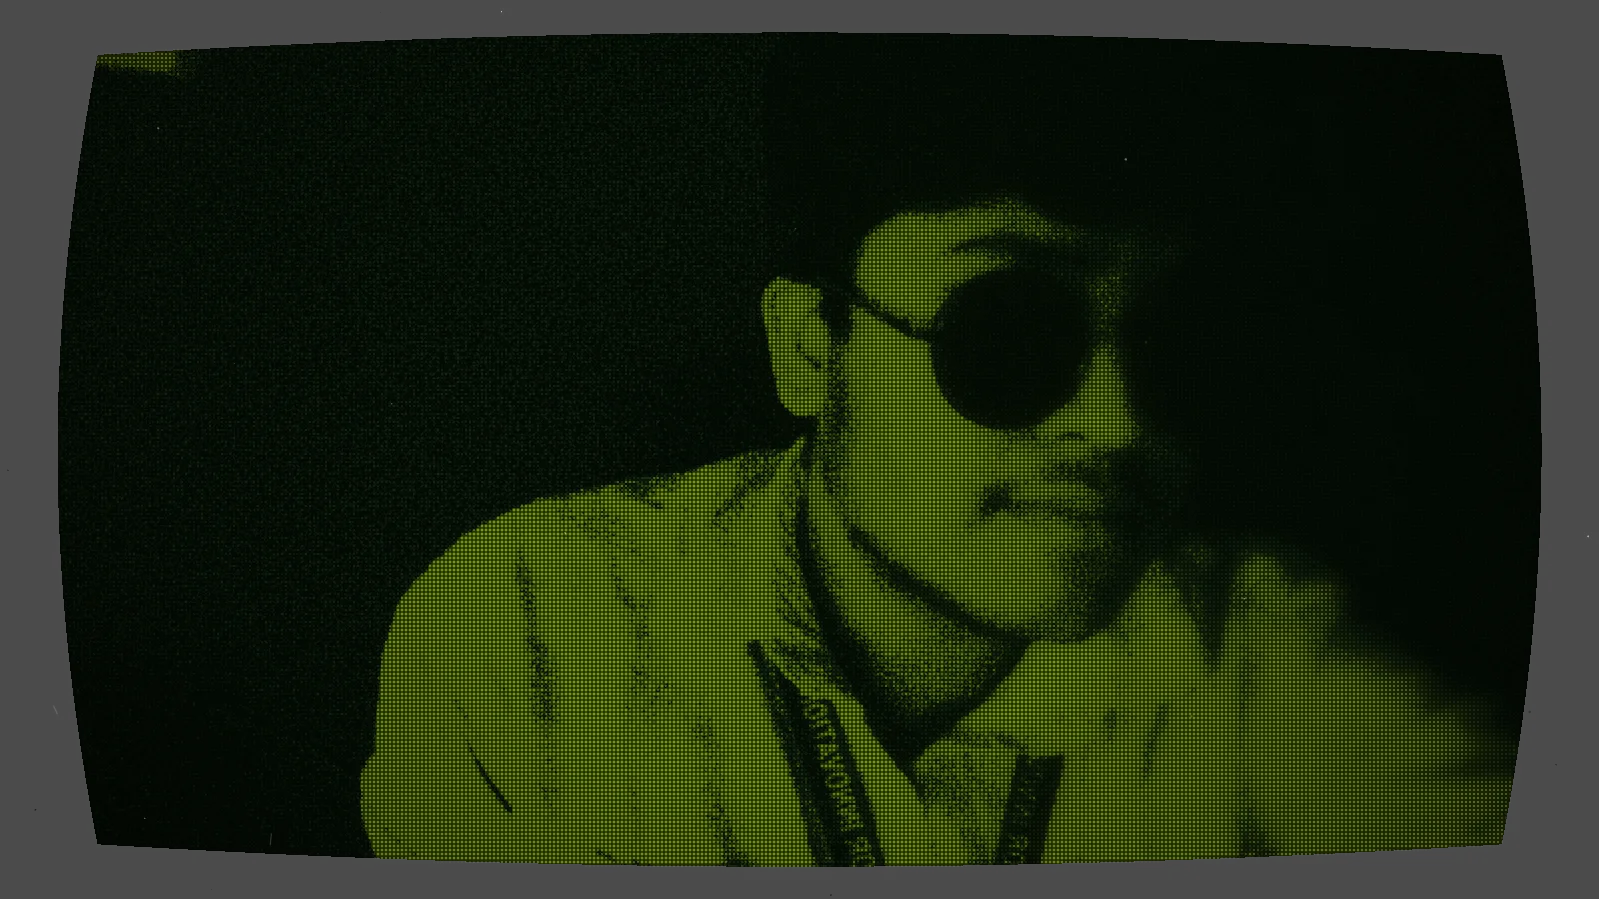
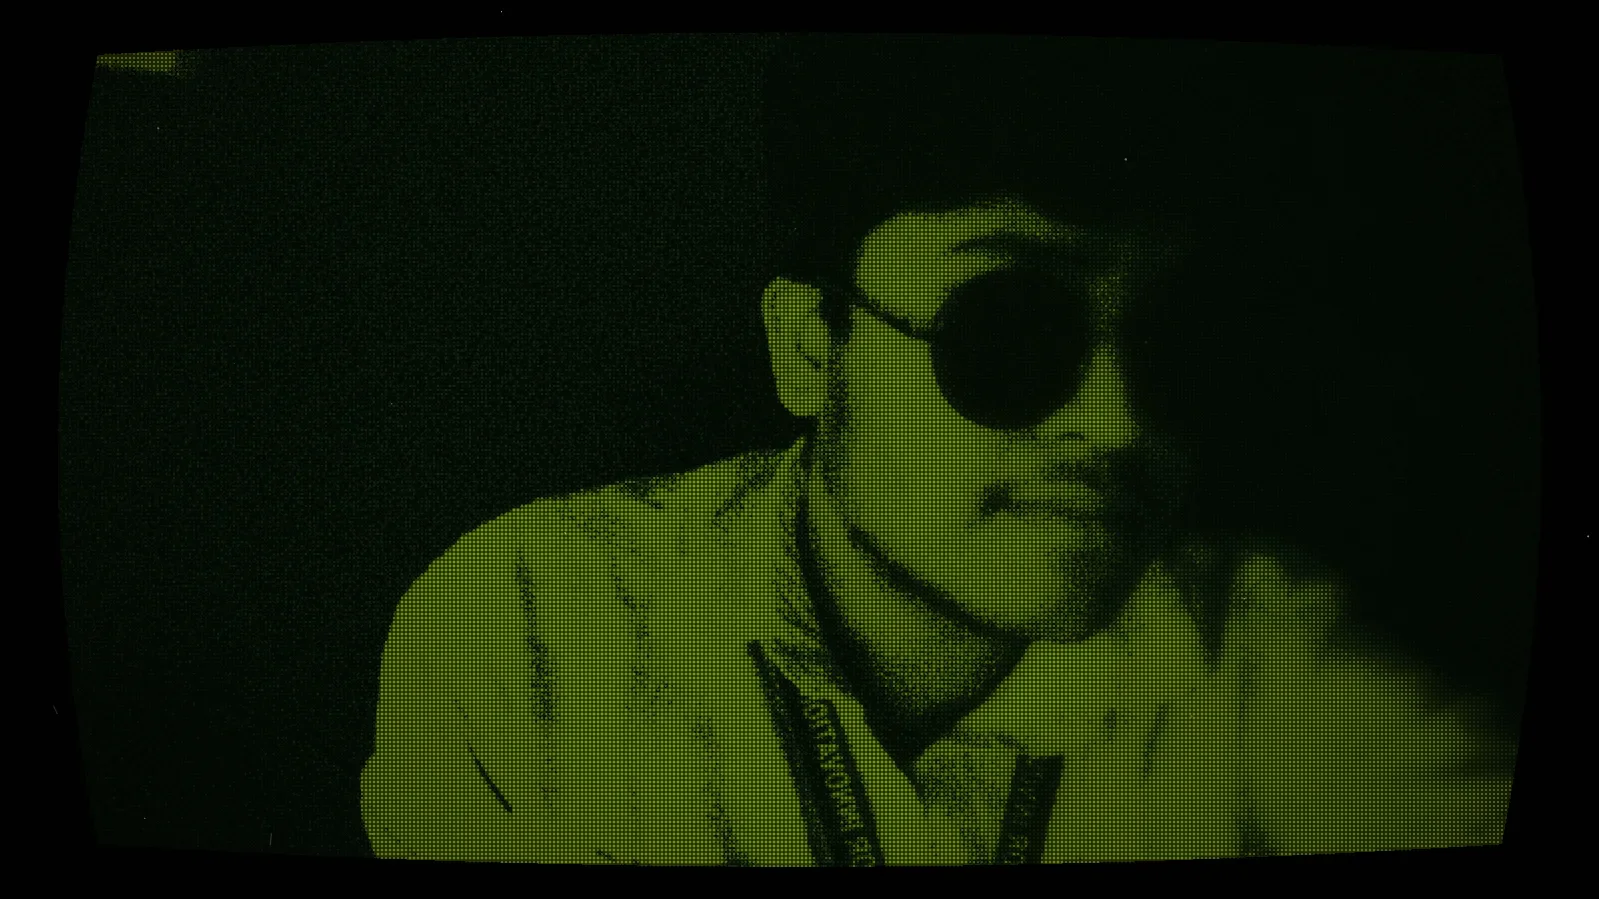
Add PixelTransition hover reveal to hero portrait, tune Hero sizing
Hover the portrait to pixelate into a Java "Hello!!" snippet in VT323.
Also bumps hero text/image size and tightens spacing, and fixes a
stray alpha channel on the portrait that let the background bleed
through.

Changed region(s): [[0.0, 0.0, 1.0, 1.0]]

diff --git a/src/components/PixelTransition.jsx b/src/components/PixelTransition.jsx
@@ -1,0 +1,134 @@
+import { useRef, useEffect, useState } from 'react';
+import { gsap } from 'gsap';
+import './PixelTransition.css';
+
+function PixelTransition({
+  firstContent,
+  secondContent,
+  gridSize = 7,
+  pixelColor = 'currentColor',
+  animationStepDuration = 0.3,
+  once = false,
+  aspectRatio = '100%',
+  className = '',
+  style = {},
+}) {
+  const containerRef = useRef(null);
+  const pixelGridRef = useRef(null);
+  const activeRef = useRef(null);
+  const delayedCallRef = useRef(null);
+
+  const [isActive, setIsActive] = useState(false);
+
+  const isTouchDevice =
+    'ontouchstart' in window ||
+    navigator.maxTouchPoints > 0 ||
+    window.matchMedia('(pointer: coarse)').matches;
+
+  useEffect(() => {
+    const pixelGridEl = pixelGridRef.current;
+    if (!pixelGridEl) return;
+
+    pixelGridEl.innerHTML = '';
+
+    for (let row = 0; row < gridSize; row++) {
+      for (let col = 0; col < gridSize; col++) {
+        const pixel = document.createElement('div');
+        pixel.classList.add('pixelated-image-card__pixel');
+        pixel.style.backgroundColor = pixelColor;
+
+        const size = 100 / gridSize;
+        pixel.style.width = `${size}%`;
+        pixel.style.height = `${size}%`;
+        pixel.style.left = `${col * size}%`;
+        pixel.style.top = `${row * size}%`;
+        pixelGridEl.appendChild(pixel);
+      }
+    }
+  }, [gridSize, pixelColor]);
+
+  const animatePixels = (activate) => {
+    setIsActive(activate);
+
+    const pixelGridEl = pixelGridRef.current;
+    const activeEl = activeRef.current;
+    if (!pixelGridEl || !activeEl) return;
+
+    const pixels = pixelGridEl.querySelectorAll('.pixelated-image-card__pixel');
+    if (!pixels.length) return;
+
+    gsap.killTweensOf(pixels);
+    if (delayedCallRef.current) {
+      delayedCallRef.current.kill();
+    }
+
+    gsap.set(pixels, { display: 'none' });
+
+    const totalPixels = pixels.length;
+    const staggerDuration = animationStepDuration / totalPixels;
+
+    gsap.to(pixels, {
+      display: 'block',
+      duration: 0,
+      stagger: {
+        each: staggerDuration,
+        from: 'random',
+      },
+    });
+
+    delayedCallRef.current = gsap.delayedCall(animationStepDuration, () => {
+      activeEl.style.display = activate ? 'block' : 'none';
+      activeEl.style.pointerEvents = activate ? 'none' : '';
+    });
+
+    gsap.to(pixels, {
+      display: 'none',
+      duration: 0,
+      delay: animationStepDuration,
+      stagger: {
+        each: staggerDuration,
+        from: 'random',
+      },
+    });
+  };
+
+  const handleEnter = () => {
+    if (!isActive) animatePixels(true);
+  };
+  const handleLeave = () => {
+    if (isActive && !once) animatePixels(false);
+  };
+  const handleClick = () => {
+    if (!isActive) animatePixels(true);
+    else if (isActive && !once) animatePixels(false);
+  };
+
+  return (
+    <div
+      ref={containerRef}
+      className={`pixelated-image-card ${className}`}
+      style={style}
+      onMouseEnter={!isTouchDevice ? handleEnter : undefined}
+      onMouseLeave={!isTouchDevice ? handleLeave : undefined}
+      onClick={isTouchDevice ? handleClick : undefined}
+      onFocus={!isTouchDevice ? handleEnter : undefined}
+      onBlur={!isTouchDevice ? handleLeave : undefined}
+      tabIndex={0}
+    >
+      <div style={{ paddingTop: aspectRatio }} />
+      <div className="pixelated-image-card__default" aria-hidden={isActive}>
+        {firstContent}
+      </div>
+      <div
+        className="pixelated-image-card__active"
+        ref={activeRef}
+        aria-hidden={!isActive}
+      >
+        {secondContent}
+      </div>
+      <div className="pixelated-image-card__pixels" ref={pixelGridRef} />
+    </div>
+  );
+}
+
+export default PixelTransition;

diff --git a/src/sections/Hero.jsx b/src/sections/Hero.jsx
@@ -3,7 +3,14 @@ import { motion } from 'framer-motion';
 import { ArrowDown } from 'lucide-react';
 import BlueRedPurpleReveal from '../components/BlueRedPurpleReveal';
 import DecryptedText from '../components/DecryptedText';
+import PixelTransition from '../components/PixelTransition';
 import heroPortrait from '../assets/hero-portrait.webp';
+
+const HELLO_JAVA = `public class Hello {
+  public static void main(String[] args) {
+    System.out.println("Hello!!");
+  }
+}`;
 
 const NAME_LINES = ['GUGULOTH', 'ADITHYA', 'JADHAV'];
 const DECRYPT_SPEED = 35; // ms per revealed character
@@ -33,7 +40,7 @@ export default function Hero() {
       id="hero"
       className="relative flex min-h-screen flex-col items-center justify-center px-6 py-24"
     >
-      <div className="mx-auto flex w-full max-w-6xl flex-col items-center gap-12 lg:flex-row lg:justify-between lg:gap-16">
+      <div className="mx-auto flex w-full max-w-7xl flex-col items-center gap-12 lg:flex-row lg:justify-center lg:gap-10">
         <div className="flex min-w-0 flex-col items-center gap-6 text-center lg:items-start lg:text-left">
           <div className="font-vt leading-[0.95] tracking-widest text-[#39ff14]">
             {NAME_LINES.map((line) => (
@@ -45,7 +52,7 @@ export default function Hero() {
                   sequential
                   revealDirection="center"
                   speed={DECRYPT_SPEED}
-                  parentClassName="text-5xl sm:text-6xl md:text-7xl"
+                  parentClassName="text-6xl sm:text-7xl md:text-8xl"
                   className="drop-shadow-[0_0_14px_rgba(57,255,20,0.85)]"
                   encryptedClassName="text-[#39ff14]/40"
                 />
@@ -68,13 +75,29 @@ export default function Hero() {
         <motion.div
           initial={{ opacity: 0, x: 24 }}
           animate={{ opacity: 1, x: 0 }}
-          transition={{ duration: 0.7, ease: 'easeOut', delay: 0.2 }}
-          className="w-full max-w-md shrink-0 overflow-hidden rounded-[20px] border border-white/15 shadow-[0_8px_32px_rgba(0,0,0,0.35)] lg:max-w-lg"
+          transition={{ duration: 0.7, ease: 'easeOut' }}
+          className="w-full max-w-lg shrink-0 lg:max-w-xl"
         >
-          <img
-            src={heroPortrait}
-            alt="Portrait of Guguloth Adithya Jadhav"
-            className="h-auto w-full"
+          <PixelTransition
+            firstContent={
+              <img
+                src={heroPortrait}
+                alt="Portrait of Guguloth Adithya Jadhav"
+                style={{ width: '100%', height: '100%', objectFit: 'cover' }}
+              />
+            }
+            secondContent={
+              <div className="flex h-full w-full items-center justify-center bg-[#0a0e1a] p-6">
+                <pre className="font-vt text-lg leading-snug text-[#39ff14] sm:text-xl md:text-2xl">
+                  {HELLO_JAVA}
+                </pre>
+              </div>
+            }
+            gridSize={12}
+            pixelColor="#39ff14"
+            animationStepDuration={0.4}
+            aspectRatio="56.2%"
+            className="w-full rounded-[20px] border border-white/15 shadow-[0_8px_32px_rgba(0,0,0,0.35)]"
           />
         </motion.div>
       </div>

diff --git a/src/components/PixelTransition.css b/src/components/PixelTransition.css
@@ -1,0 +1,34 @@
+.pixelated-image-card {
+  position: relative;
+  overflow: hidden;
+}
+
+.pixelated-image-card__default,
+.pixelated-image-card__active,
+.pixelated-image-card__pixels {
+  width: 100%;
+  height: 100%;
+  position: absolute;
+  top: 0;
+  left: 0;
+}
+
+.pixelated-image-card__active {
+  z-index: 2;
+  display: none;
+}
+
+.pixelated-image-card__pixels {
+  pointer-events: none;
+  position: absolute;
+  z-index: 3;
+  top: 0;
+  left: 0;
+  width: 100%;
+  height: 100%;
+}
+
+.pixelated-image-card__pixel {
+  display: none;
+  position: absolute;
+}